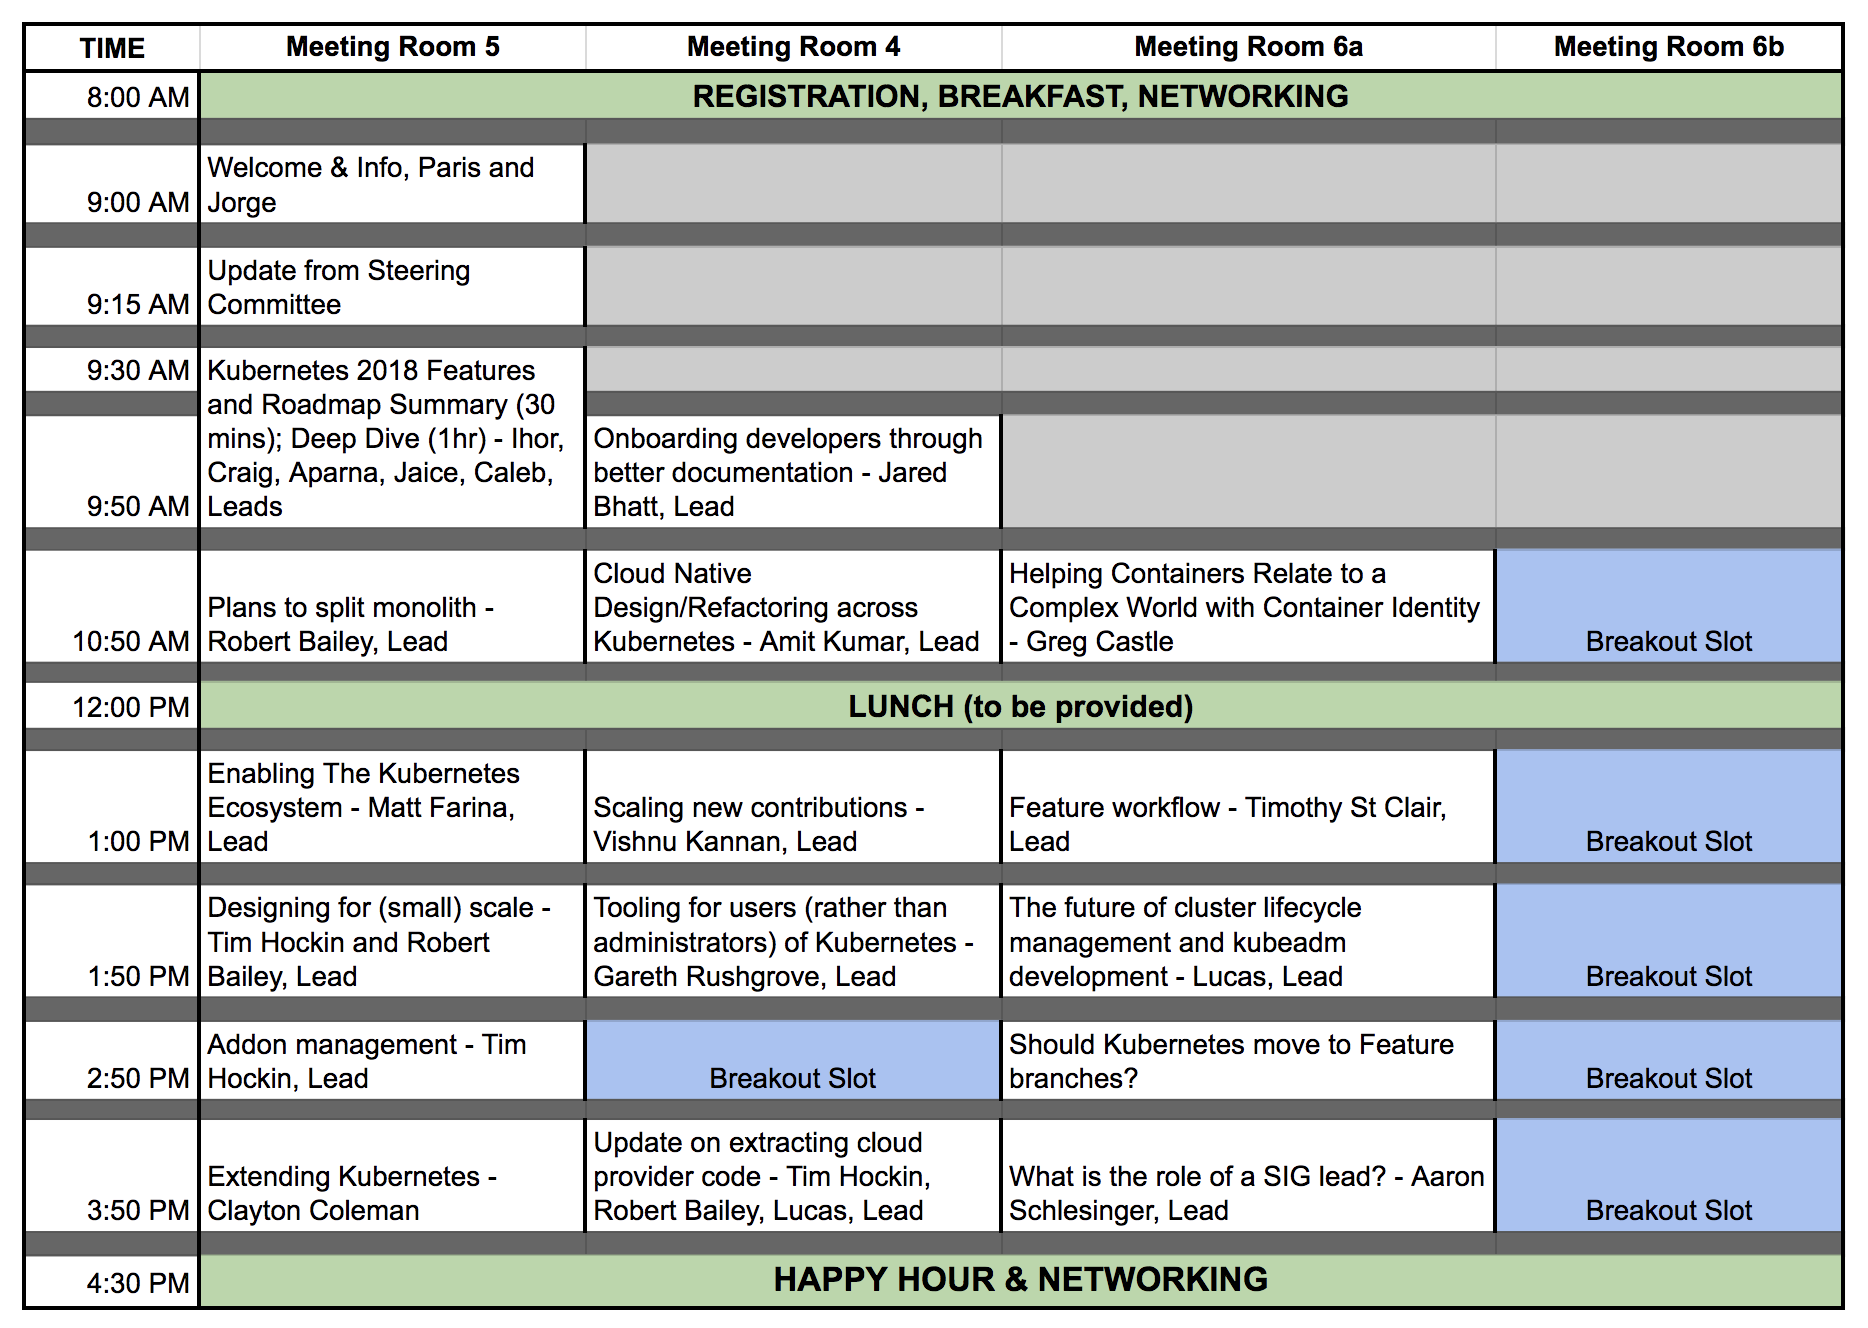
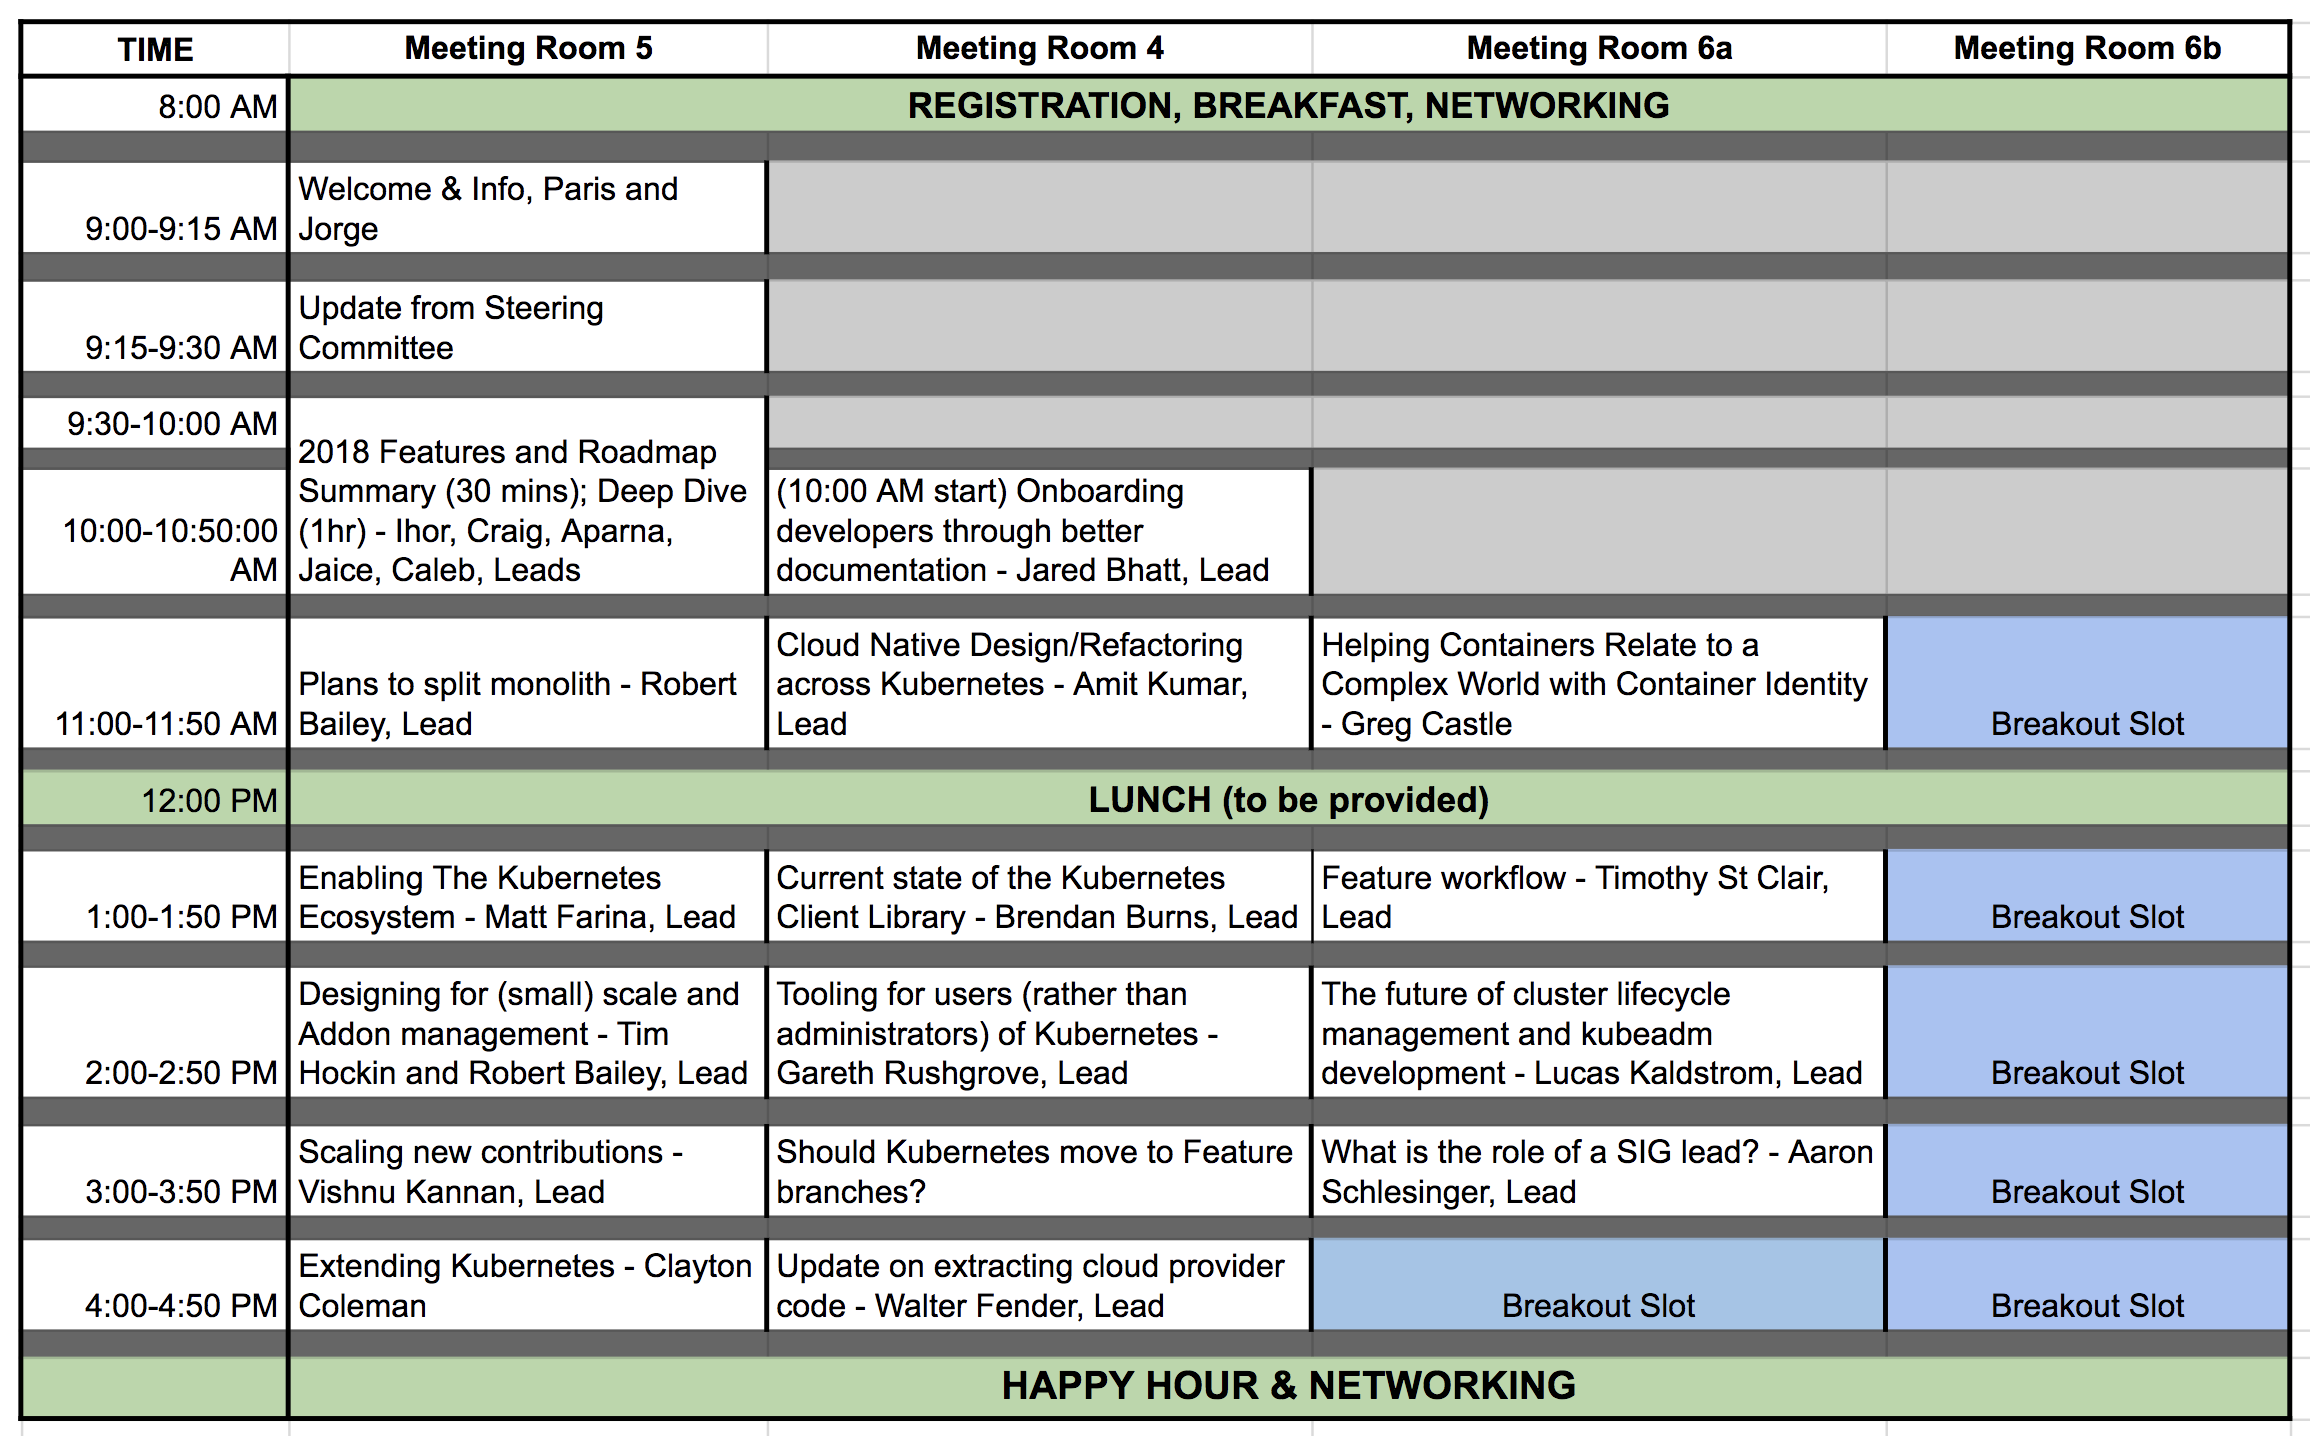
corrected schedule and file names

diff --git a/community/2017-events/12-contributor-summit/ContribSummitInformation.md b/community/2017-events/12-contributor-summit/ContribSummitInformation.md
@@ -18,7 +18,7 @@ Times in CST
 01:00pm - Sessions resume  
 04:30pm - Happy Hour onsite  
 
-View the complete session schedule [here](/kubernetes/community/community/2017-events/schedule).  
+View the complete session schedule [here](/community/community/2017-events/12-contributor-summit/schedule.png).  
 Session schedule will be available onsite in print as well as on TVs.
 
 ## Where:
